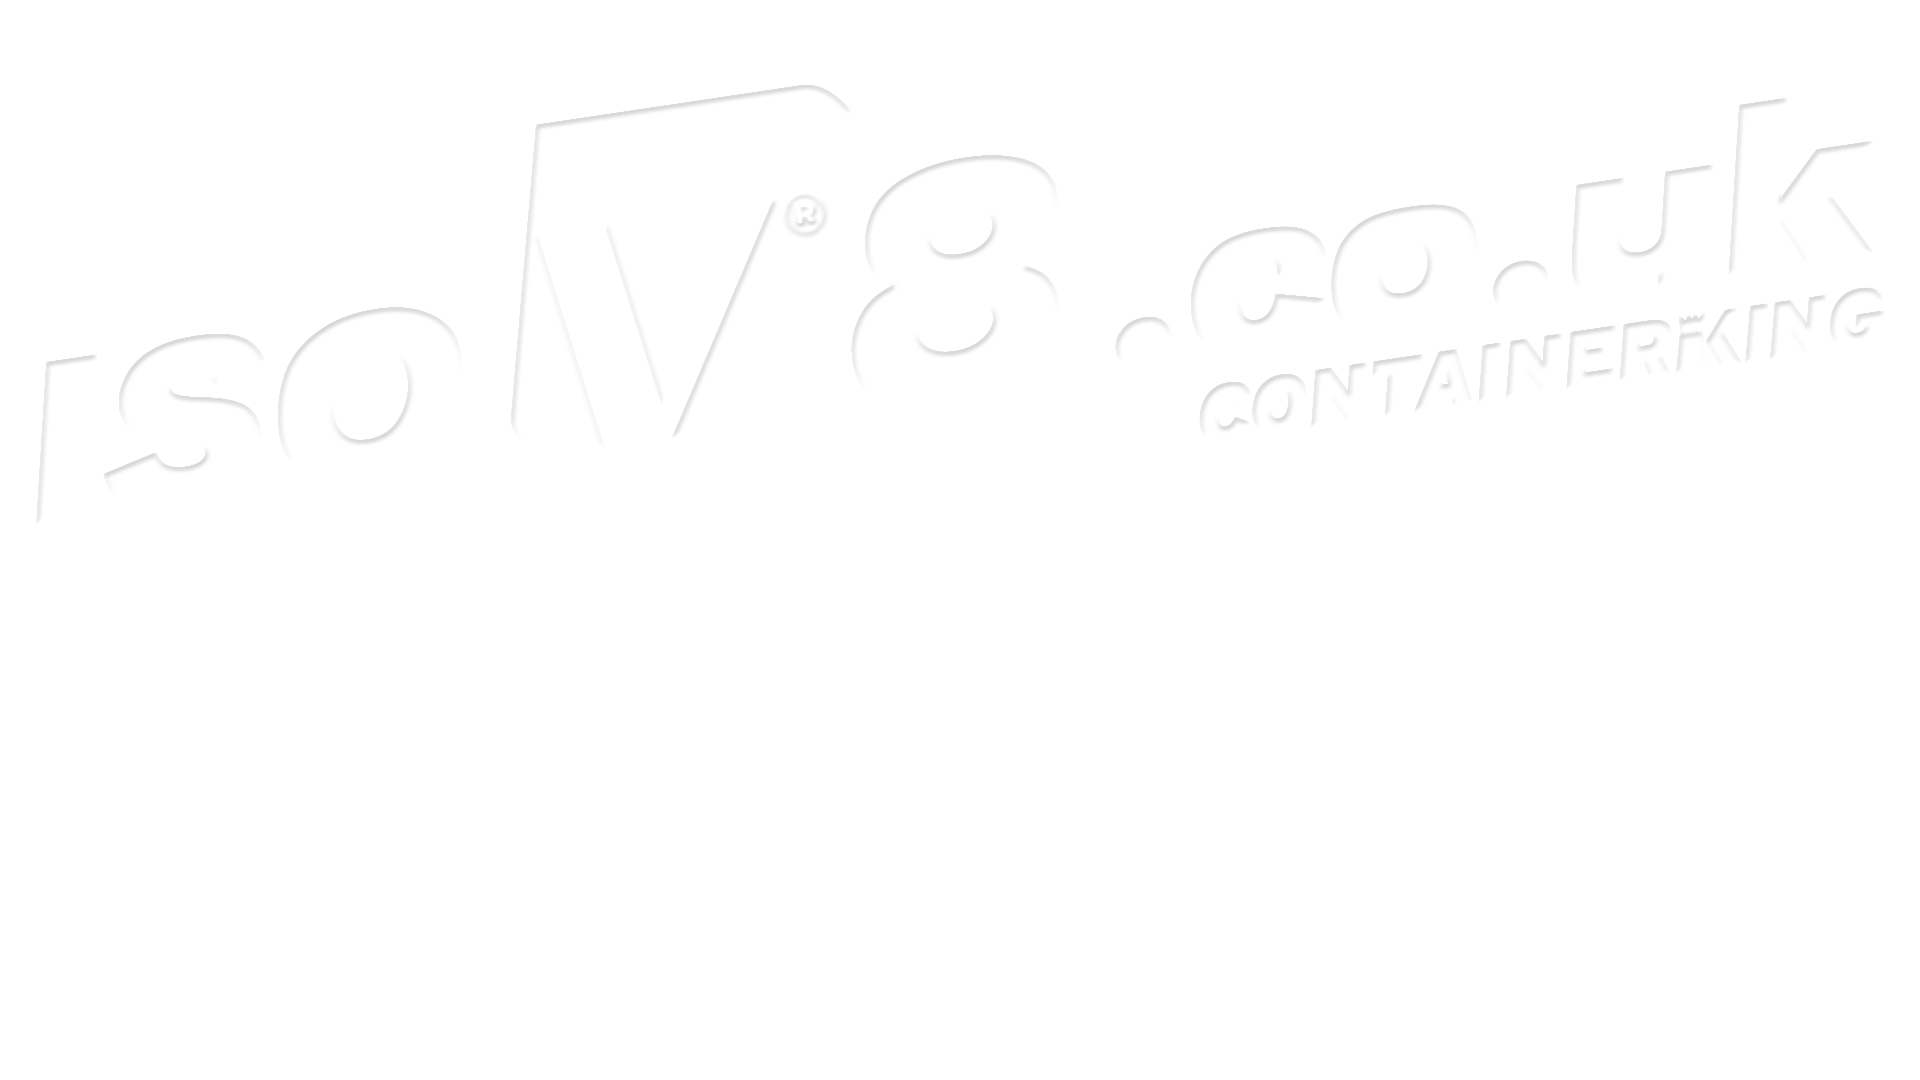
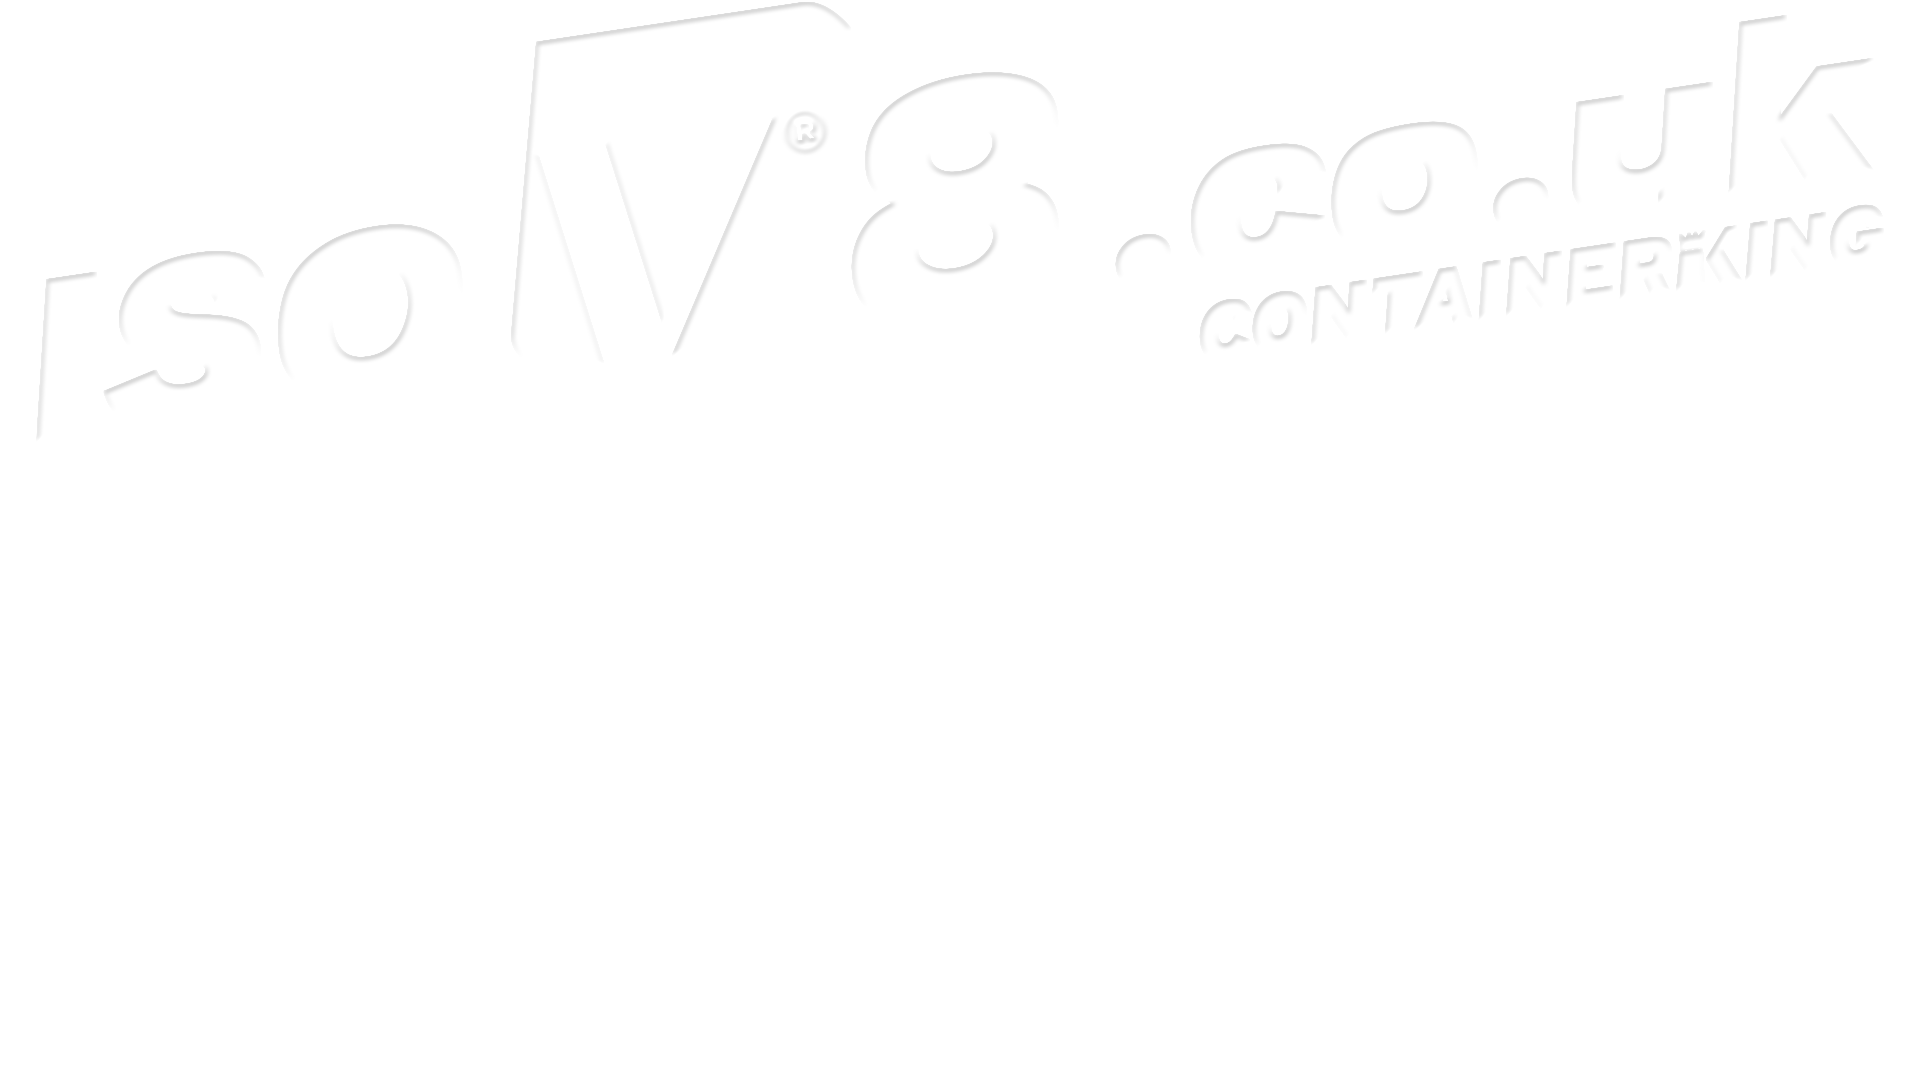
New Commit

diff --git a/sub-catagory.html b/sub-catagory.html
@@ -95,7 +95,7 @@
         </header>
 
         <section id="hero" style="height: 2700px;">
-          <img src="images/sub-category/isov8-pure-white.png" style="width: 100%; height: 100vh; object-fit: contain; object-position: center;">
+          <img src="images/sub-category/isov8-pure-white.png" style="width: 100%; height: 100vh; object-fit: contain; object-position: top;">
 
           <div class="hero-flexbox" style="margin-top: -750px;">
             <div class="hero-heading-flexbox">
